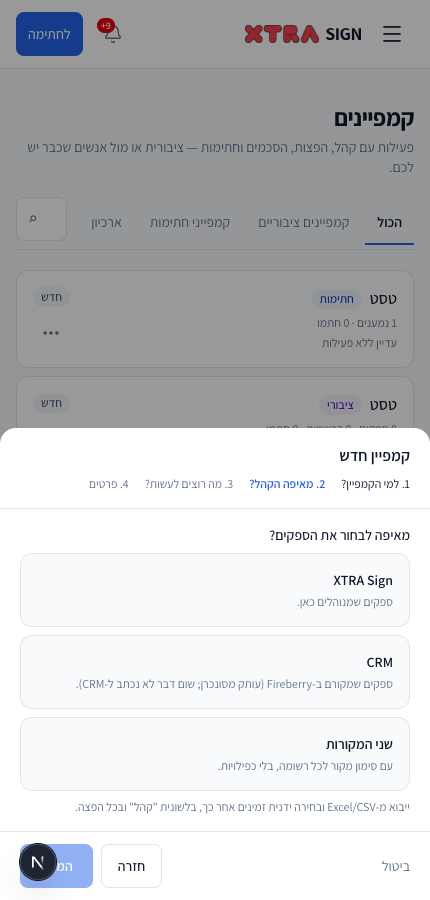
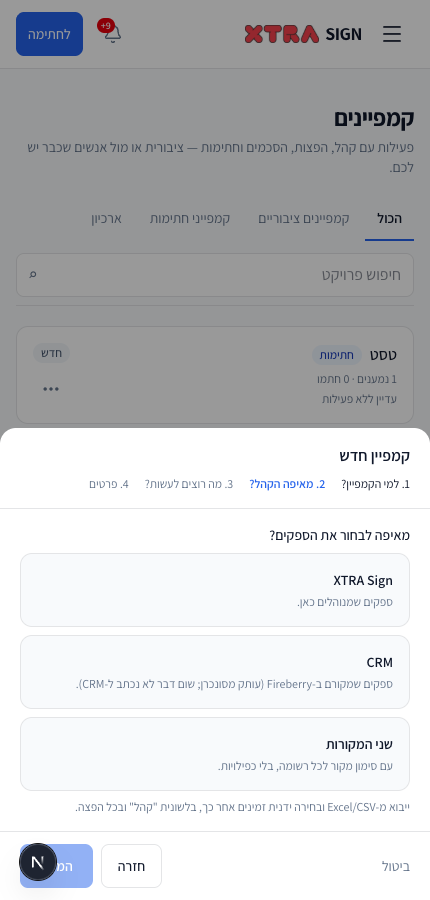
Campaign search drops under the filter tabs on phones; an overflow-measuring QA helper

diff --git a/scripts/qa/measure-overflow.ts b/scripts/qa/measure-overflow.ts
@@ -1,0 +1,42 @@
+import puppeteer from 'puppeteer-core'
+
+/**
+ * Names the elements that stick out of the viewport on a page — the quickest
+ * way to find what makes a phone scroll sideways.
+ *
+ *   SESSION=<token> E2E_BASE=http://localhost:3057 WIDTH=390 PATH_TO=/projects OPEN_WIZARD=1 npx tsx scripts/qa/measure-overflow.ts
+ */
+const BASE = process.env.E2E_BASE ?? 'http://localhost:3057'
+const SESSION = process.env.SESSION ?? ''
+const WIDTH = Number(process.env.WIDTH ?? 390)
+const PATH_TO = process.env.PATH_TO ?? '/'
+const CHROME = process.env.CHROME ?? '/Applications/Google Chrome.app/Contents/MacOS/Google Chrome'
+
+async function main() {
+  const browser = await puppeteer.launch({ executablePath: CHROME, headless: true })
+  const page = await browser.newPage()
+  await page.setViewport({ width: WIDTH, height: 900 })
+  if (SESSION) await page.setCookie({ name: 'xtra_sign_session', value: SESSION, url: BASE })
+  await page.goto(`${BASE}${PATH_TO}`, { waitUntil: 'networkidle0', timeout: 90000 })
+  if (process.env.OPEN_WIZARD) {
+    for (const b of await page.$$('main button')) {
+      if ((await b.evaluate((el) => el.textContent?.trim())) === '+ קמפיין חדש') {
+        await b.click()
+        break
+      }
+    }
+    await page.waitForSelector('[role="dialog"]')
+  }
+  const out = await page.evaluate(() => {
+    const w = document.documentElement.clientWidth
+    const bad: string[] = []
+    for (const el of Array.from(document.querySelectorAll('body *'))) {
+      const r = el.getBoundingClientRect()
+      if (r.width > 0 && (r.right > w + 1 || r.left < -1)) bad.push(`${el.tagName}.${String(el.className || '').slice(0, 70)} left=${Math.round(r.left)} right=${Math.round(r.right)}`)
+    }
+    return { w, sw: document.documentElement.scrollWidth, bad: bad.slice(0, 15) }
+  })
+  console.log(JSON.stringify(out, null, 1))
+  await browser.close()
+}
+main().catch((e) => { console.error(e); process.exit(1) })

diff --git a/src/app/projects/page.tsx b/src/app/projects/page.tsx
@@ -75,7 +75,7 @@ export default async function CampaignsPage({
             </Link>
           ))}
         </nav>
-        <div className="ms-auto mb-2 flex min-w-0 flex-1 justify-end sm:flex-none">
+        <div className="mb-2 flex w-full min-w-0 justify-end sm:ms-auto sm:w-auto">
           <ProjectsSearch key={search} search={search} archived={archived} />
         </div>
       </div>
